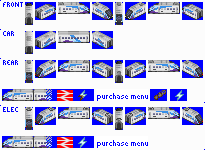
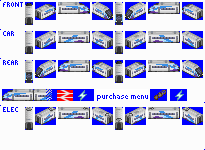
Added 397 graphics
- Finished 397 tpx spriteset.
- Fixed introduction date for 756.

diff --git a/README.md b/README.md
@@ -5,10 +5,10 @@ A UK Train Set for OpenTTD including all the latest British Rail classes to be i
 |     Completed     |                   |  In Progress  |  Planned  |
 | :---------------: | :---------------: | :-----------: | :-------: |
 |   Class 195/0/1   | Class 800/0/1/2/3 |   Class 68    | Class 707 |
-|   Class 331/0/1   |   Class 801/1/2   |   Class 397   | Class 717 |
+|   Class 331/0/1   |   Class 801/1/2   | | Class 717 |
 |   Class 745/0/1   | Class 802/0/1/2/3 | | Class 777 |
 | Class 769/0/3/4/9 | Class 755/3/4| | |
-| Class 756/3/4 | | |
+| Class 756/3/4 | Class 397/0 | |
 
 ### Installation
 Grab the latest release from the releases page, put in your OpenTTD/newGRF folder, then add to the game using newGRF settings.
